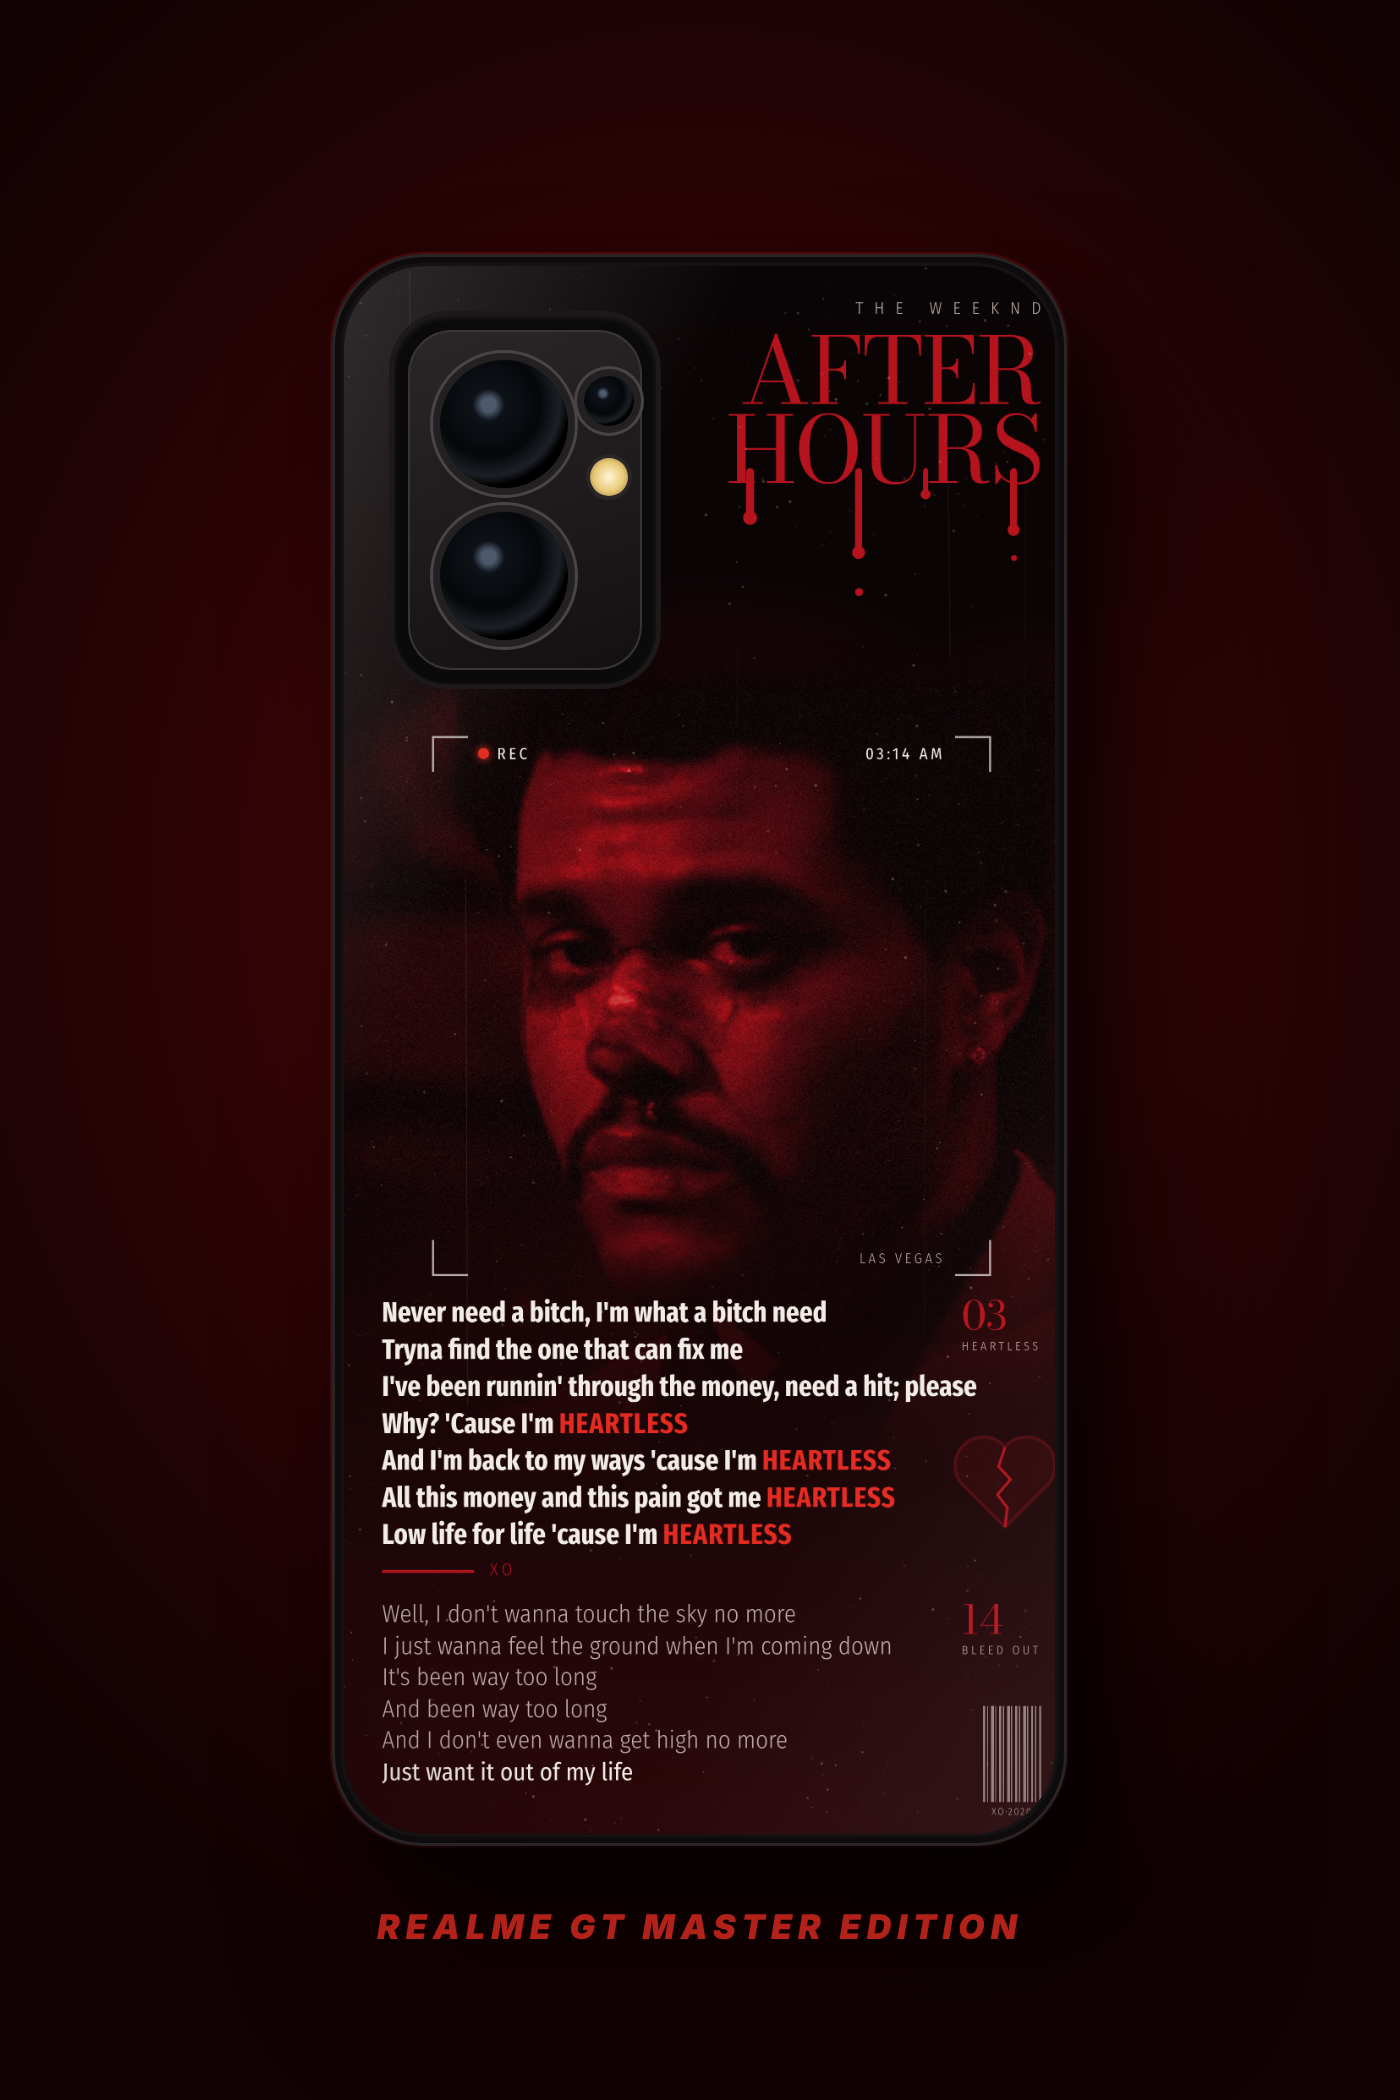
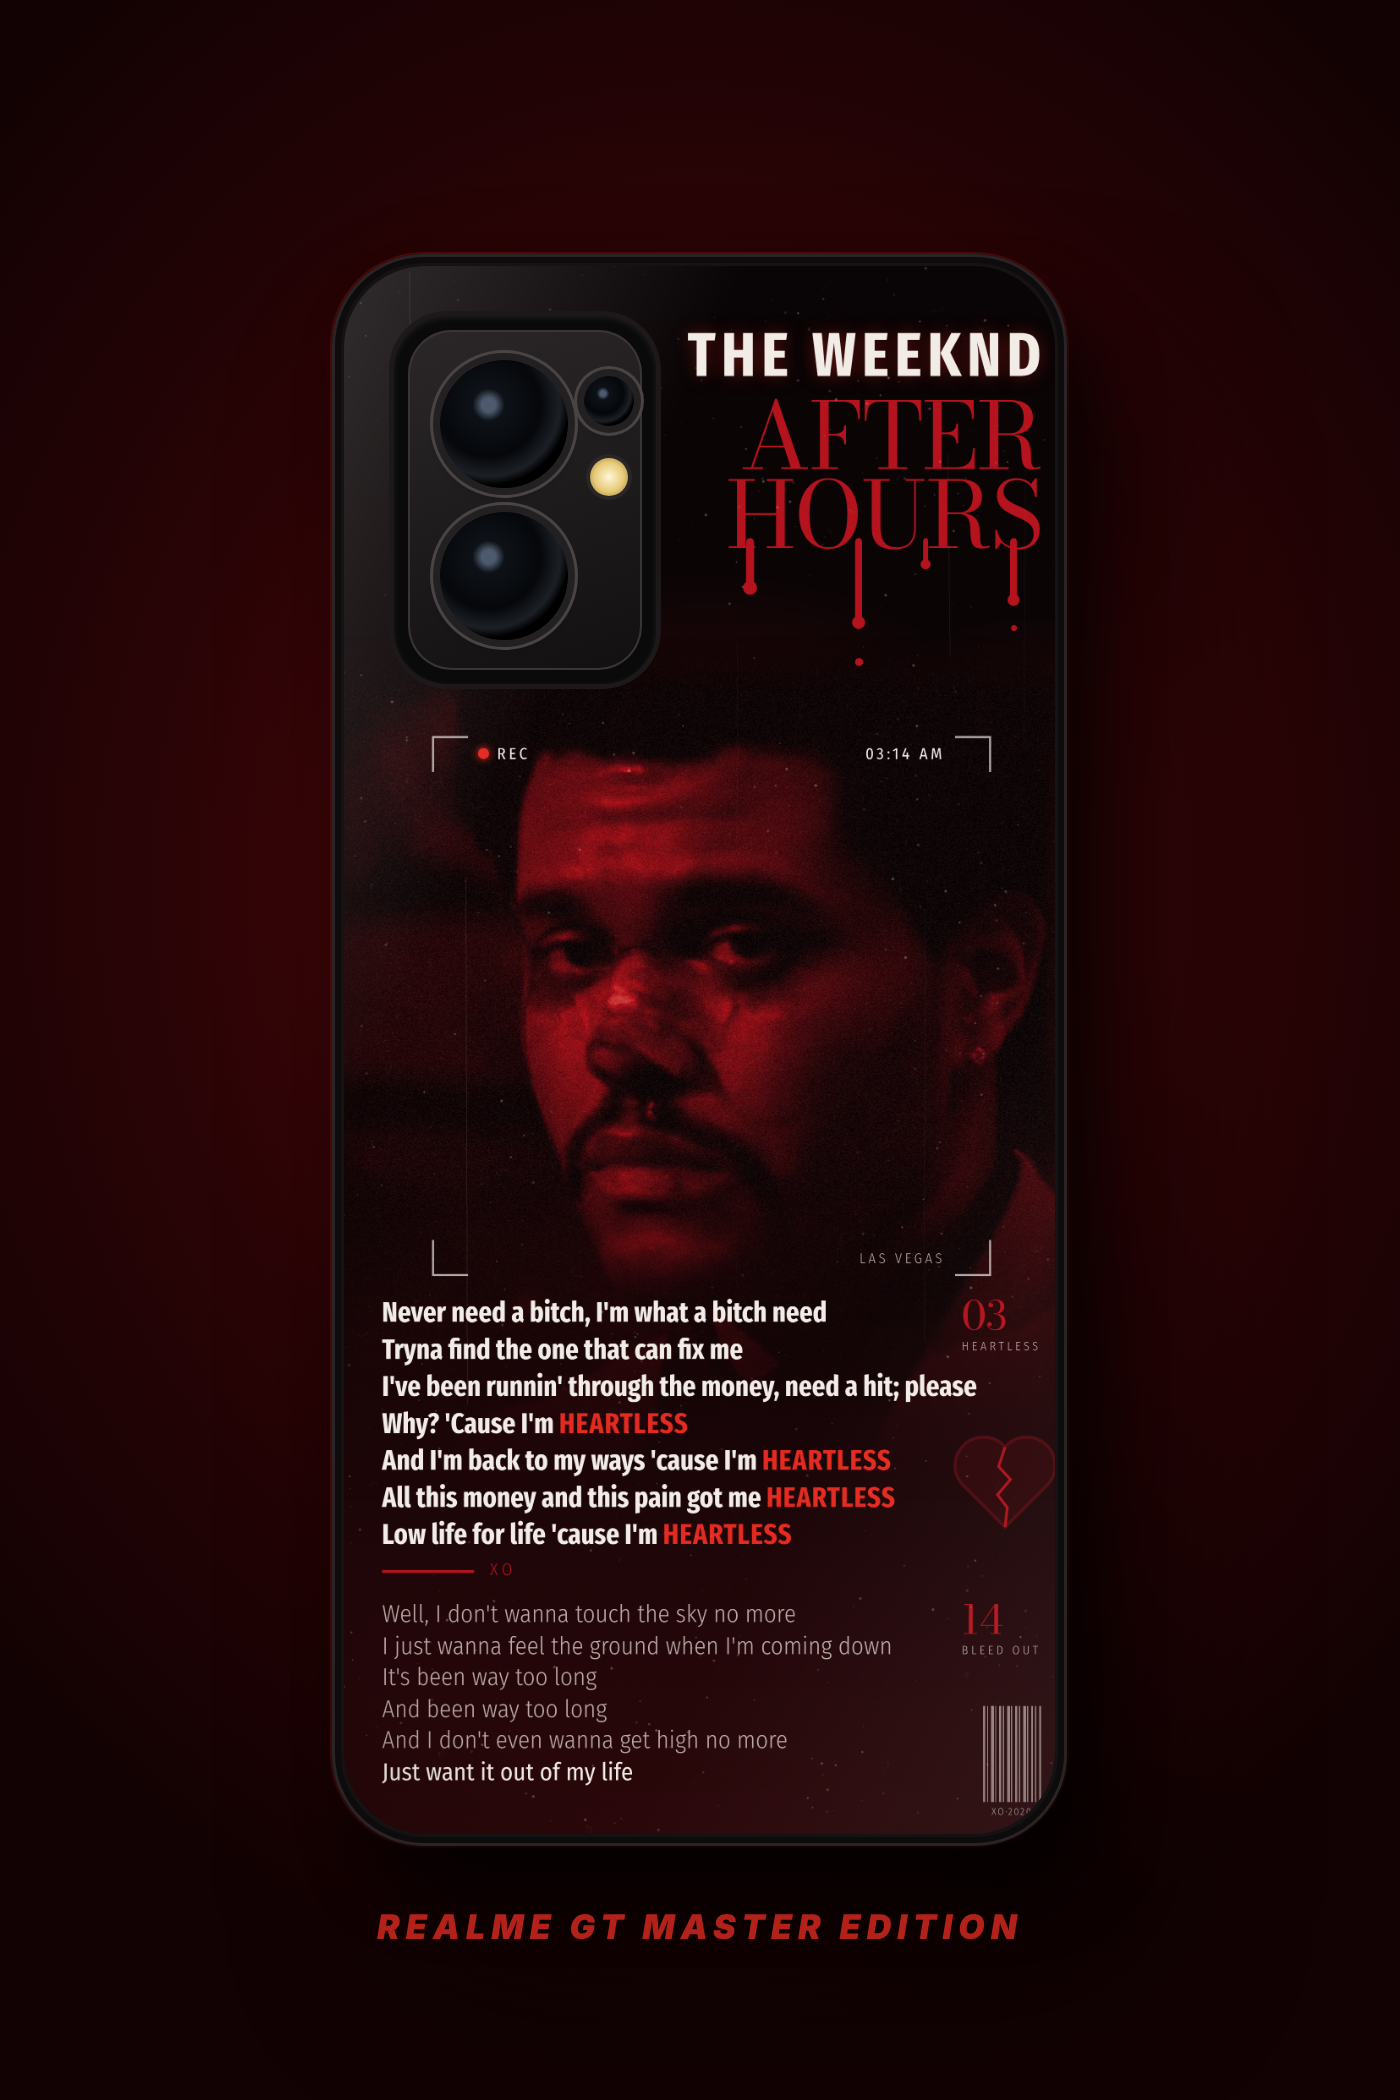
غلاف v4: اسم THE WEEKND كبير فوق AFTER HOURS
Claude-Session: https://claude.ai/code/session_011VfX9anDrDiMrvdnRutvkn

Changed region(s): [[0.4914, 0.1548, 0.7371, 0.2786]]

diff --git a/ghelaf/v4/cover.html b/ghelaf/v4/cover.html
@@ -19,9 +19,10 @@ html, body { margin: 0; background: #000; }
     linear-gradient(var(--coal) 0, #0d0405 55%, #2a0609 100%); }
 
 /* الماستهيد فوق يمين جنب الكاميرا */
-.mast { position: absolute; right: 68px; top: 64px; text-align: right; color: var(--blood); }
+.mast { position: absolute; right: 68px; top: 88px; text-align: right; color: var(--blood); }
 .mast h1 { margin: 0; font: 400 92px/.86 Bodoni; letter-spacing: -2px; }
-.mast small { display: block; margin-bottom: 14px; font: 300 17px/1 FiraC; letter-spacing: 11px; color: var(--mute); margin-right: -11px; }
+.mast .name { display: block; margin: 0 -6px 10px 0; font: 700 62px/1 FiraX; letter-spacing: 6px; color: var(--ink);
+  text-shadow: 0 0 18px rgba(226,40,31,.35); }
 
 .portrait { position: absolute; left: -52px; top: 400px; width: 900px; }
 
@@ -78,7 +79,7 @@ html, body { margin: 0; background: #000; }
 <body>
 <div id="canvas">
   <div class="mast">
-    <small>THE WEEKND</small>
+    <span class="name">THE WEEKND</span>
     <h1>AFTER<br>HOURS</h1>
   </div>
 
@@ -90,13 +91,13 @@ html, body { margin: 0; background: #000; }
   </div>
 
   <!-- نقط دم نازلة من HOURS -->
-  <svg class="drips" width="795" height="1652" fill="#b0121b">
+  <svg class="drips" width="795" height="1652" fill="#b0121b"><g transform="translate(0 70)">
     <path d="M436 232 q4 0 4 6 v38 a7 7 0 1 1 -8 0 v-38 q0 -6 4 -6z"/>
     <path d="M545 232 q3 0 3 5 v74 a6.5 6.5 0 1 1 -7 0 v-74 q0 -5 4 -5z"/>
     <path d="M612 232 q2 0 2 4 v18 a5 5 0 1 1 -5 0 v-18 q0 -4 3 -4z"/>
     <path d="M700 232 q3 0 3 5 v52 a6 6 0 1 1 -7 0 v-52 q0 -5 4 -5z"/>
     <circle cx="545" cy="356" r="4"/><circle cx="700" cy="322" r="3"/>
-  </svg>
+  </g></svg>
 
   <div class="trk" style="top:1060px">03<small>HEARTLESS</small></div>
   <svg class="heart-mark" viewBox="0 0 100 92" fill="none" stroke="#4a0a0f" stroke-width="3">
